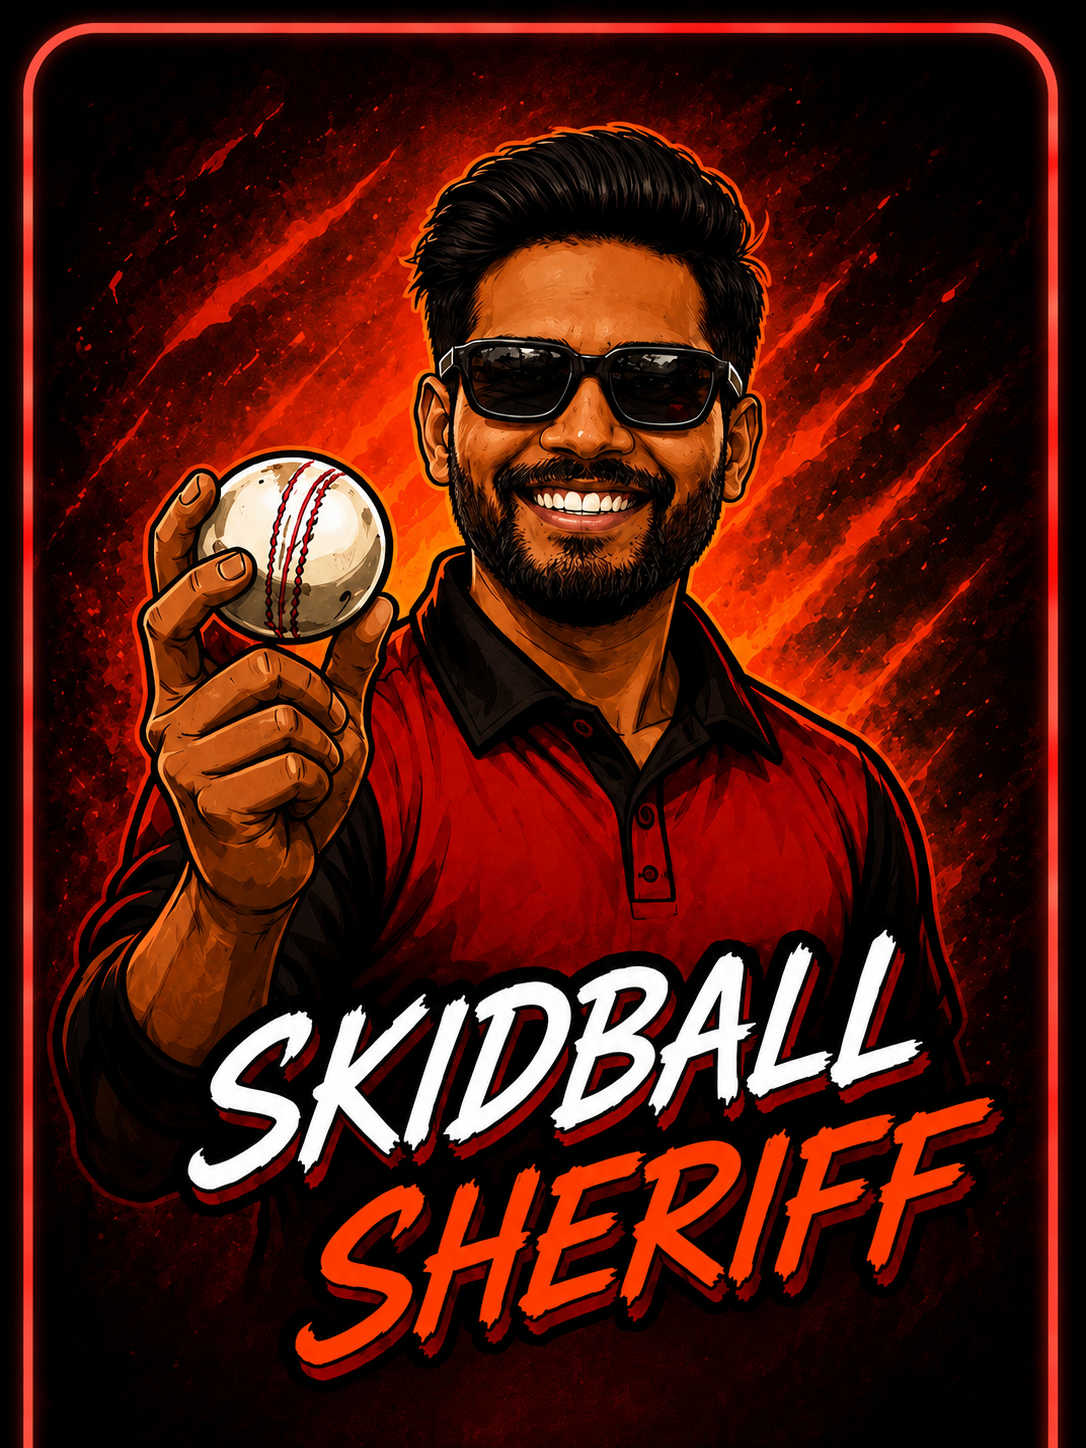
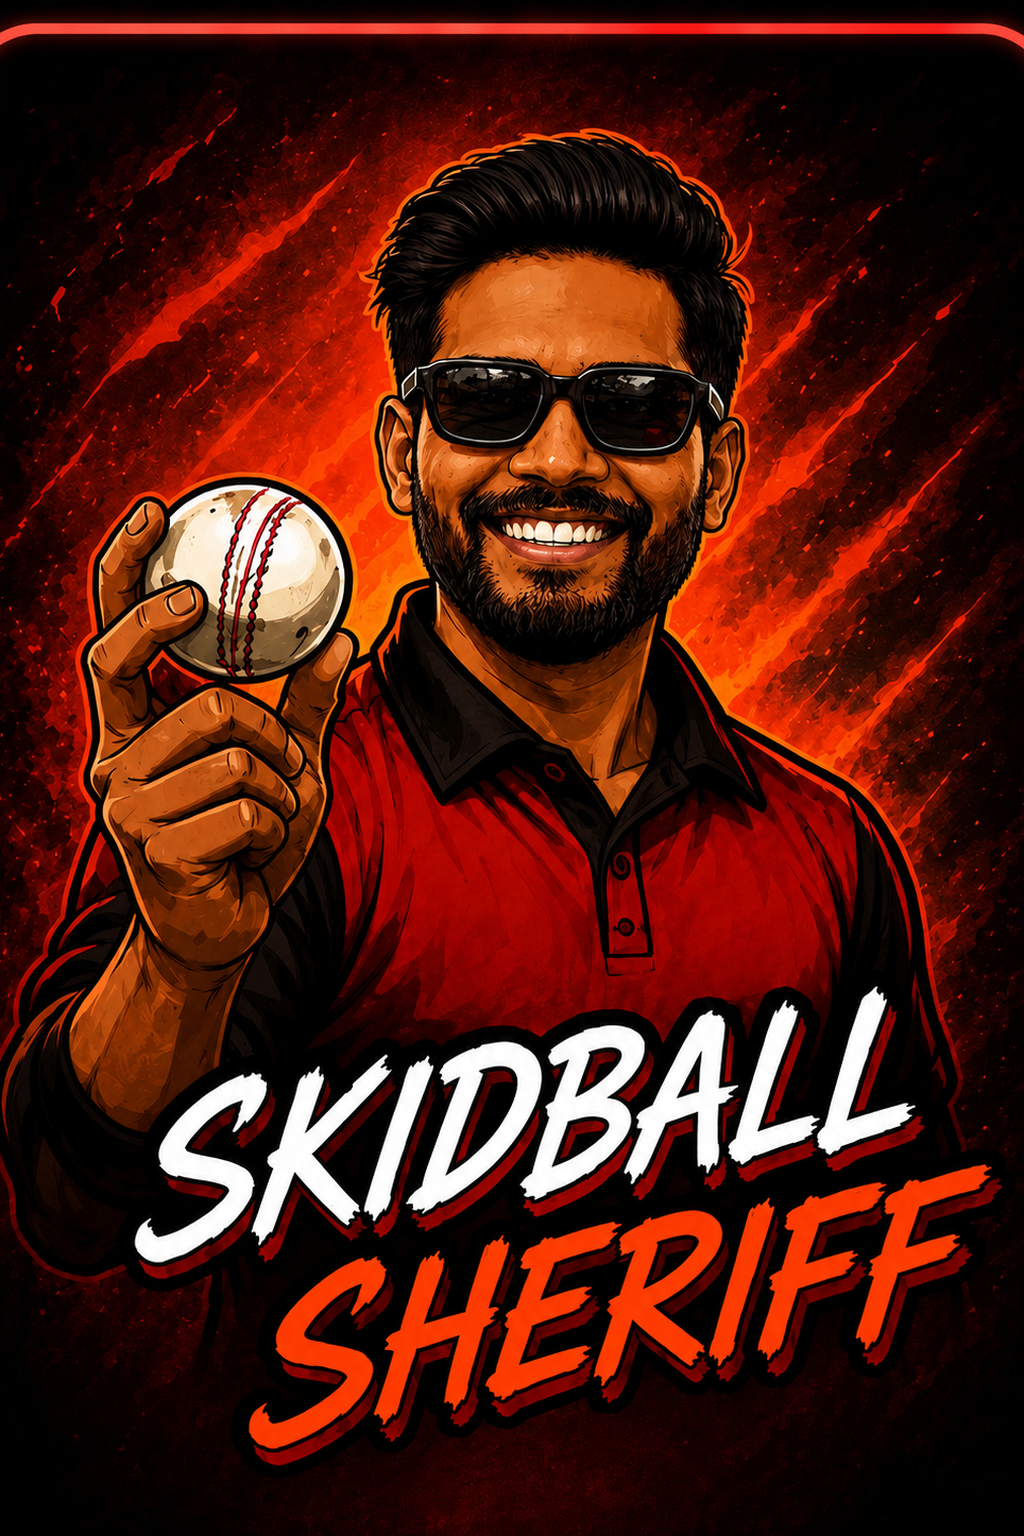
Normalize player card artwork aspect ratios

diff --git a/tests/dashboard.test.ts b/tests/dashboard.test.ts
@@ -106,6 +106,16 @@ const newPlayerImagePaths = [
   "/player-cards/precision-pacer.png",
   "/player-cards/style-striker.png"
 ];
+
+function getPublicPngDimensions(publicPath: string) {
+  const image = readFileSync(path.join(process.cwd(), "public", publicPath.replace(/^\//, "")));
+
+  return {
+    width: image.readUInt32BE(16),
+    height: image.readUInt32BE(20)
+  };
+}
+
 const originalPlayerSummaries = [
   ["aninda", "Rulebook Rambo", "/player-cards/rulebook-rambo.png"],
   ["arunabha", "Turbo Technician", "/player-cards/turbo-technician.png"],
@@ -2408,6 +2418,27 @@ test("the original sixteen player identities and approved card assets are canoni
     assert.equal(player.avatar, player.cardImage);
     assert.equal(existsSync(path.join(process.cwd(), "public", player.cardImage.slice(1))), true);
   }
+});
+
+test("active player-card artwork uses the shared two-by-three card aspect", () => {
+  for (const player of activePlayers) {
+    const dimensions = getPublicPngDimensions(player.cardImage);
+    const aspectRatio = dimensions.width / dimensions.height;
+
+    assert.ok(
+      Math.abs(aspectRatio - 2 / 3) < 0.01,
+      `${player.id} card artwork should be close to 2:3 but is ${dimensions.width}x${dimensions.height}`
+    );
+  }
+
+  assert.deepEqual(getPublicPngDimensions("/player-cards/slow-poison.png"), {
+    width: 1024,
+    height: 1536
+  });
+  assert.deepEqual(getPublicPngDimensions("/player-cards/skidball-sheriff.png"), {
+    width: 1024,
+    height: 1536
+  });
 });
 
 test("approved player avatar title changes preserve stable roster identities", () => {
